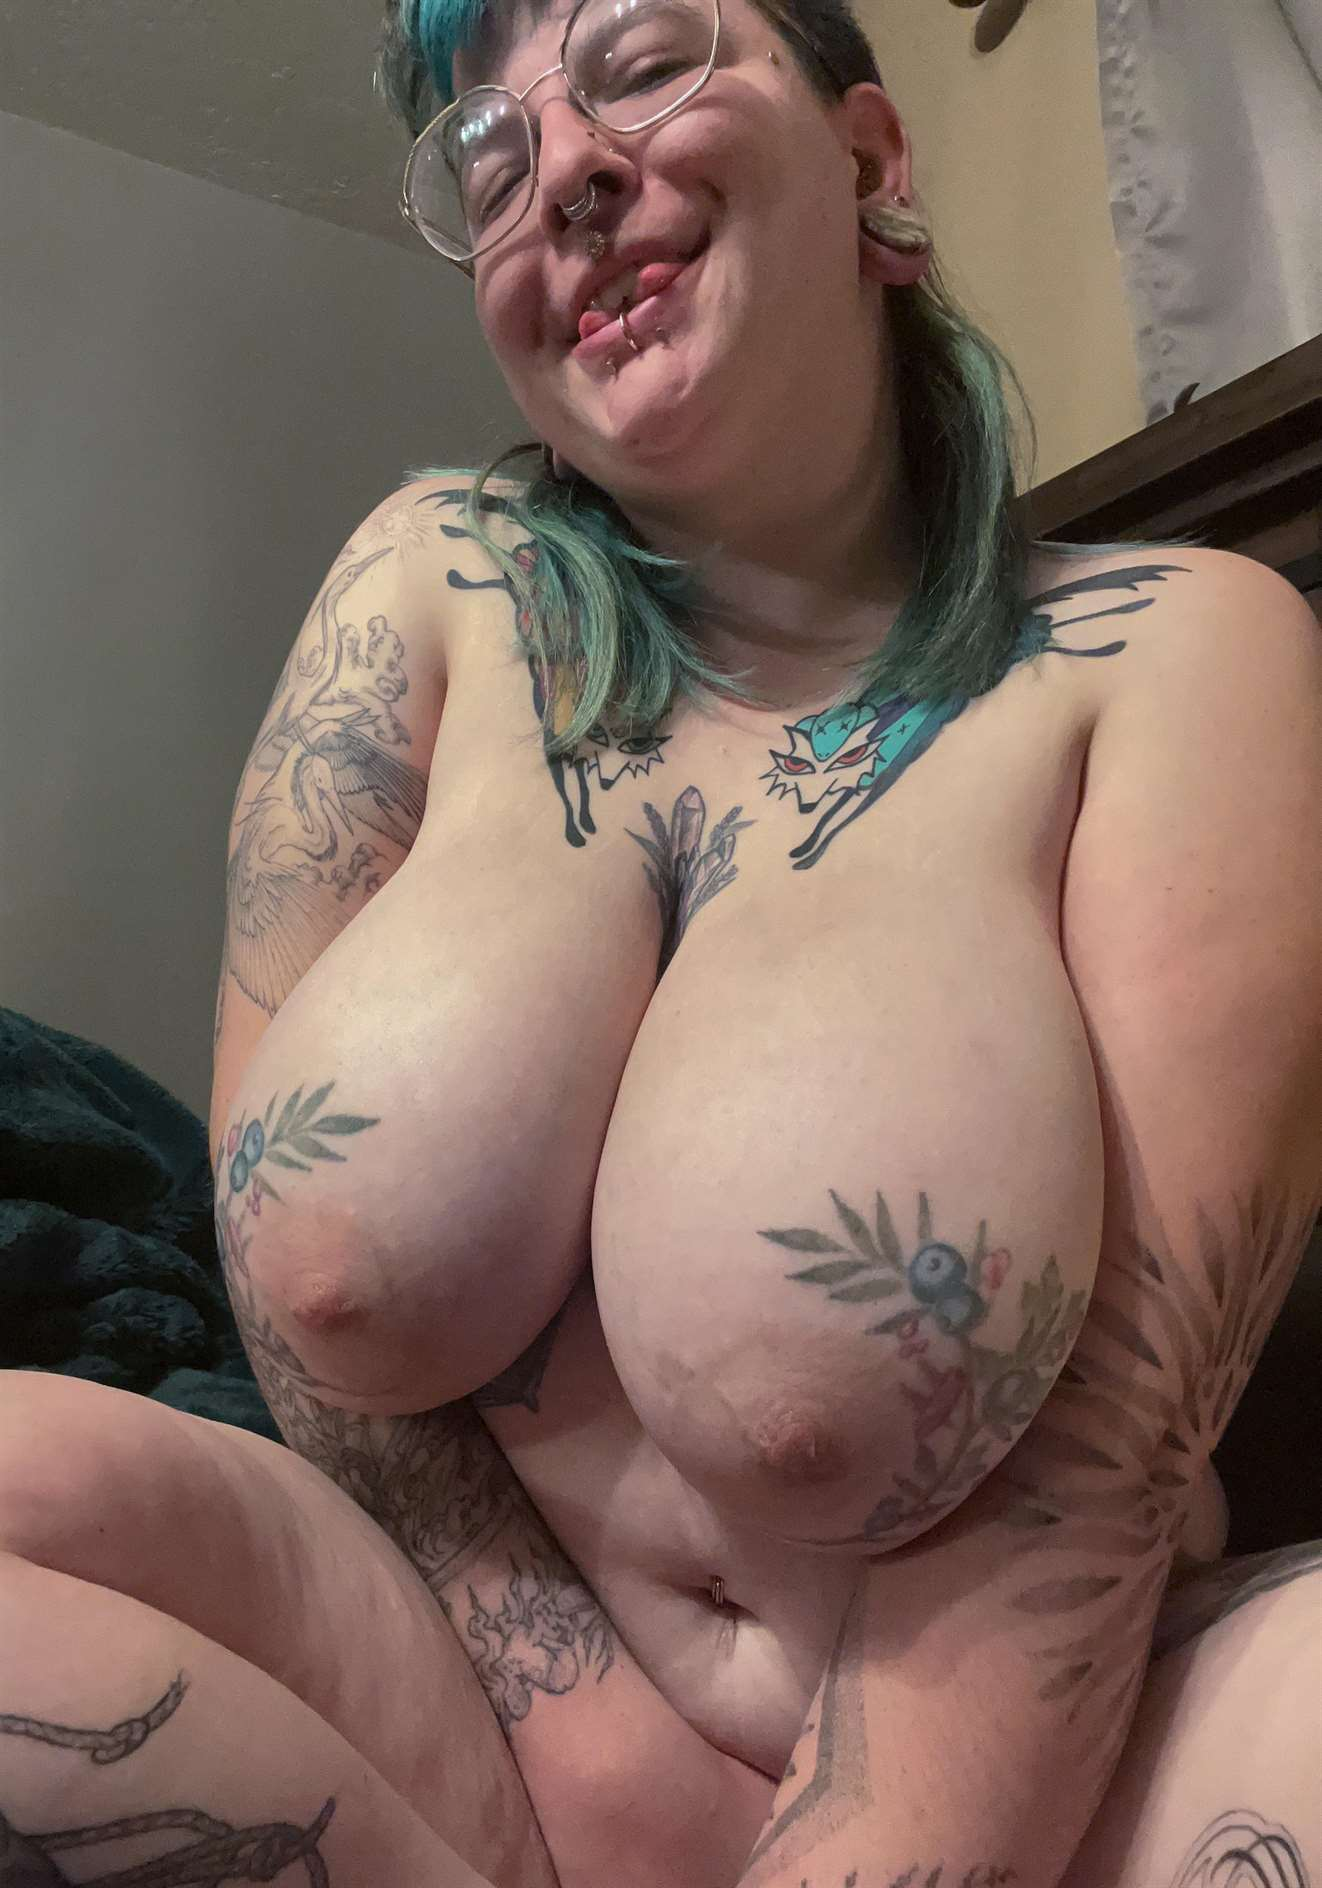
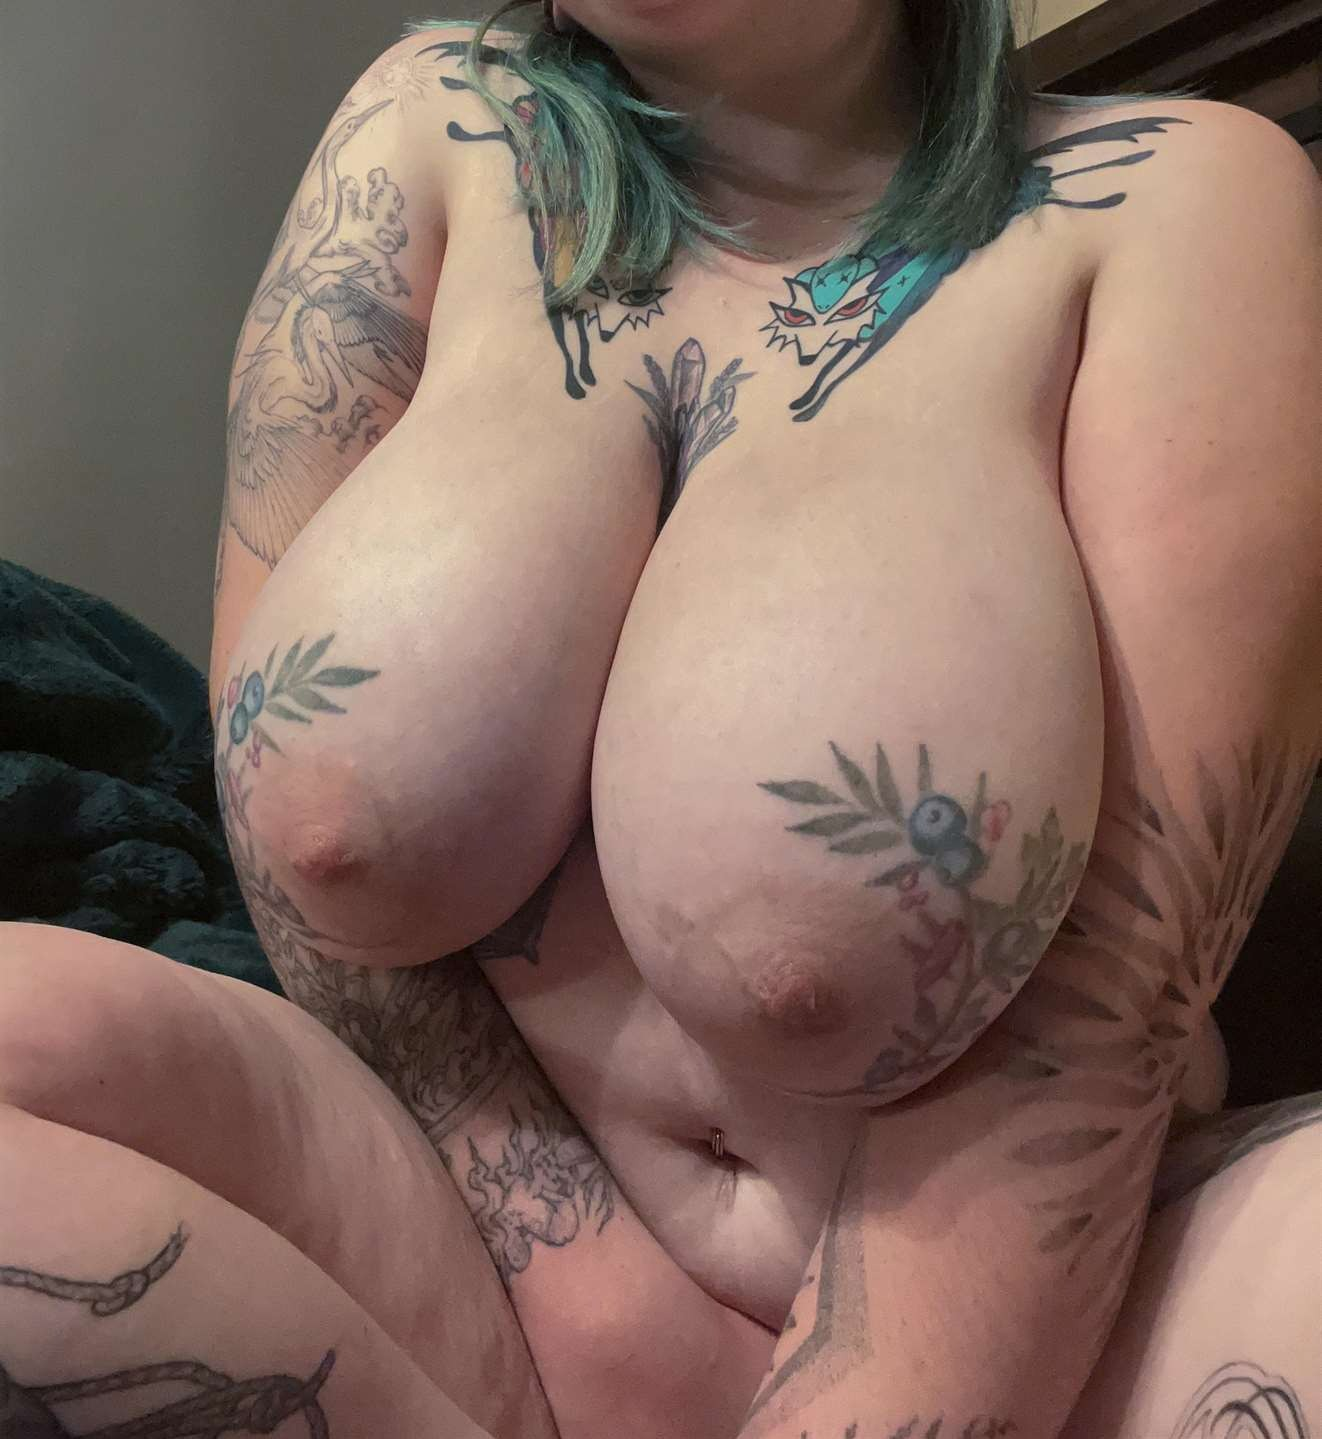
update

diff --git a/index/main.js b/index/main.js
@@ -952,18 +952,21 @@ function phnopt() {
         <table id="iks_list">
         <tr><td><div><a onclick="if(localStorage.getItem('hider')=='off'){localStorage.setItem('hider','on');
     hider();}else{localStorage.setItem('hider','off');}">hider `+ localStorage.getItem('hider') + `</a></div></td></tr>
-        <tr><td><div><a onclick="hold();hidephnopt();">hold</a></div></td></tr>
-        <tr><td><div><a onclick="unholdl();hidephnopt();">unhold from list</a></div></td></tr>
+        <tr><td><div><a class="webrotate"  onclick="hold();hidephnopt();">hold</a>&nbsp;&nbsp;
+        <a class="webrotate"  onclick="unholdl();hidephnopt();">unhold list</a>&nbsp;&nbsp;`
+        + ((unholdf) ? `<a class="webrotate"  onclick="unholdc();hidephnopt();">undo</a>` : '')+
         
-        `+ ((unholdf) ? `<tr><td><div><a onclick="unholdc();hidephnopt();">unhold prev</a></div></td></tr>` : '')
-            + ((localStorage.getItem("col") != 1) ? `<tr><td><div><a onclick="ds('a');hidephnopt();">mix</a></div></td></tr>` : '')
-            + ((localStorage.getItem("col") != 2) ? `<tr><td><div><a onclick="ds('d');hidephnopt();">desi</a></div></td></tr>` : '')
-            + ((localStorage.getItem("col") != 3) ? `<tr><td><div><a onclick="ds('f');hidephnopt();">foreign</a></div></td></tr>` : '')
-
+        `</div></td></tr><tr><td><div>`
+        + ((localStorage.getItem("col") != 1) ? `<a class="webrotate"  onclick="ds('a');hidephnopt();">mix</a>&nbsp;&nbsp;&nbsp;&nbsp;` : '')
+            + ((localStorage.getItem("col") != 2) ? `<a class="webrotate"  onclick="ds('d');hidephnopt();">desi</a>&nbsp;&nbsp;&nbsp;&nbsp;` : '')
+            + ((localStorage.getItem("col") != 3) ? `<a class="webrotate"  onclick="ds('f');hidephnopt();">foreign</a>` : '')
++`</div></td></tr>`
 
             + ((big == 1) ? ((web) ? '<tr><td><div><a class="webrotate" onclick="rotateout(90);hidephnopt();">rotate x1</a> &nbsp;&nbsp;<a class="webrotate"  onclick="rotateout(180);hidephnopt();">rotate x2</a>&nbsp;&nbsp;<a class="webrotate"  onclick="rotateout(270);hidephnopt();">rotate x3</a></div></td></tr>'
-                : '<tr><td><div><a onclick="rotate();hidephnopt();">rotate</a></div></td></tr>') : '')
-            + `</table>
+                : '<tr><td><div><a class="webrotate" onclick="rotate(90);hidephnopt();">rotate x1</a> &nbsp;&nbsp;<a class="webrotate"  onclick="rotate(180);hidephnopt();">rotate x2</a>&nbsp;&nbsp;<a class="webrotate"  onclick="rotate(270);hidephnopt();">rotate x3</a></div></td></tr>') : '')
+            + ((big == 1) ?`<tr><td><div><a class="webrotate" onclick="cropeditfunc('crop');hidephnopt();">Crop</a> &nbsp;&nbsp;<a class="webrotate"  onclick="cropeditfunc('edit');hidephnopt();">Edit</a></div></td></tr>`:``)
+            +
+            `</table>
         
         </div>`;
         eHelp.onclick = () => eHelp.remove();

diff --git a/index/index.js b/index/index.js
@@ -110,7 +110,9 @@ function Delete() {
   if (fulls == 1 && phone) {
     fullscreen();
   }
-  // if (confirm("Are you sure")) {
+  var sure=(phone)?confirm("Are you sure"):true;
+  
+   if (sure) {
   //   cout('y');
   var anum = parseInt(document.querySelector("#full-image").getAttribute("num"));
   var ssr = DATA[anum];
@@ -179,7 +181,7 @@ function Delete() {
   xhttp.setRequestHeader("Content-type", "application/x-www-form-urlencoded");
   xhttp.send("ddir=" + ssr);
 
-  // }
+   }
   // else {
   //   cout('n');
   // }
@@ -187,7 +189,7 @@ function Delete() {
 
 
 
-function rotate() {
+function rotate(deg=90) {
 
   playstop();
   if (web) {
@@ -234,7 +236,8 @@ function rotate() {
   };
   xhttp.open("POST", "http://" + link + ":15656/func.php", true);
   xhttp.setRequestHeader("Content-type", "application/x-www-form-urlencoded");
-  xhttp.send("rdir=" + ssr);
+  //send rdir and deg
+  xhttp.send("rdir=" + ssr+"&deg="+deg);
 }
 
 

diff --git a/func.php b/func.php
@@ -147,7 +147,7 @@ if (isset($_POST['ddir'])) {
 }
 
 if (isset($_POST['rdir'])) {
-  if (rotate($_POST['rdir']) == 1) {
+  if (rotate($_POST['rdir'],$_POST['deg']) == 1) {
     echo "Rotated";
   }
 }
